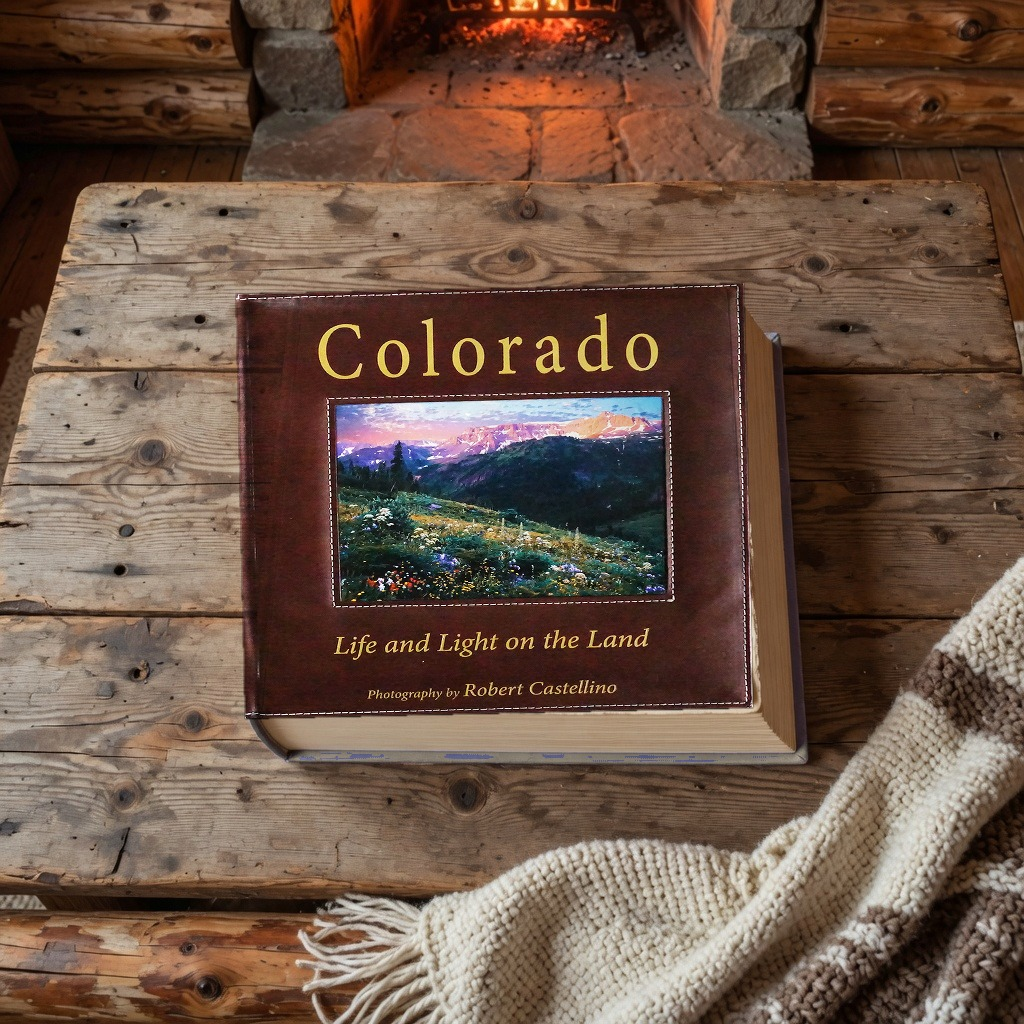
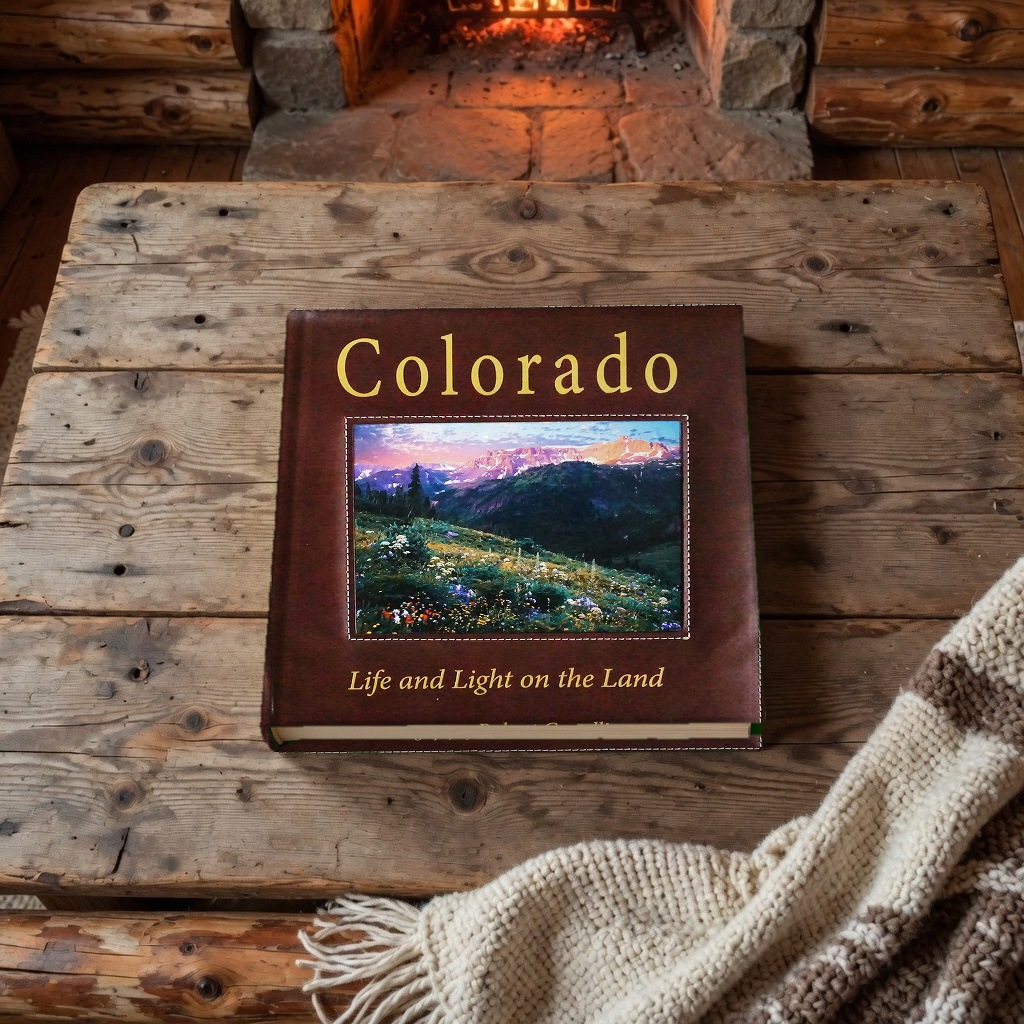
WIP for cross-device parity: add creative brief + updated book scene stand-ins
- docs/creative-brief.md (campaign strategy)
- book-cabin/evening/morning.jpg local edits (experimental stand-ins)

Changed region(s): [[0.2188, 0.25, 0.9375, 0.7812]]

diff --git a/docs/creative-brief.md b/docs/creative-brief.md
@@ -1,0 +1,125 @@
+# Creative brief — Robert Castellino
+
+Paid social and search, for the photography, the book, and the prints.
+
+Client: Robert Castellino. Site: [robertcastellino.com](https://robertcastellino.com). Studio ships from Boulder. He is based in Lafayette and has been photographing since 1985. The line on the site is half a century, one landscape.
+
+This brief is for eyeballs that can turn into a book order or a print order. Holiday gifting is one burst inside a year-round plan.
+
+## What we are selling
+
+1. **The book.** *Colorado: Life & Light on the Land.* 11 × 11 inch cloth hardcover, 168 pages, 124 plates. $75, signed $85, shipping about $12, out of the Boulder studio in about three business days. Fifth printing. This is the easiest purchase and the holiday hero.
+2. **Prints from the gallery.** Signed. Checkout sizes run from a small print around $26 up to a large one around $329, plus shipping. Someone can buy a plate straight from the gallery.
+3. **Limited-edition finishes,** shown on the book page: archival paper from $185, gallery canvas from $475, aluminum from $625, acrylic from $1,250. These are the fine-art sale, not the impulse sale.
+4. **The practice.** Mountain and Colorado photography, fine art, the archive. About, timeline, gallery, and the musings. This is what search and the top of the ad funnel are for.
+
+The holiday code `COLORADO15` on the gift-series page is still a placeholder. Do not put it in paid ads until the real offer is confirmed.
+
+## Who it is for
+
+- People who live in Colorado, or left and still miss it. The book and a print are how they keep the place in the house.
+- Gift buyers in November and December. The person who is hard to shop for. The book is the answer.
+- People who already care about mountain photography and fine art, and will pay for a signed print or a large finish.
+- Designers and homeowners furnishing a room. Pinterest and the wide Facebook ads are for them.
+
+Not the audience: generic travel shoppers, stock-photo buyers, or people looking for a cheap poster of the Maroon Bells.
+
+## The idea
+
+An experienced photographer. Fifty years in the field. One square book, and prints from the same plates.
+
+Every ad and every search page should make that obvious in the first line. The feeling lines (Rocky Mountain High, Dreaming of Colorado, Give the gift of Colorado, The mountains set your soul free) carry the picture. The photographer and the sale carry the reason to click.
+
+Voice: quiet, specific, first-hand. Name the place and the plate. Do not write like a postcard. Do not use a portrait that is not actually Robert. The usable photographs of him are the hat portrait, the Flatirons, Jenny Lake, and the about picture.
+
+## Paid social
+
+Goal: qualified visits to `/book`, `/gallery`, and a print checkout. Vanity reach is not the goal. A view that does not know there is a book or a print for sale is a wasted view.
+
+### Always on, then a holiday burst
+
+**Always on (year round).** Prospecting for people interested in Colorado, the Rockies, landscape photography, fine-art prints, and coffee-table books. Creative is the plate plus Robert, with a soft invitation to the book or the gallery. No fake discount.
+
+**Holiday burst (early November through December 19).** The same audiences, plus gift and home-decor interests. The offer is the signed book, once the real code exists. Cutoff is real: order in time to ship from Boulder before Christmas.
+
+### Where the money goes
+
+| Platform | Job | Shape |
+|---|---|---|
+| Instagram and Facebook feeds | The photographer and the plates. Retarget site visitors. | 4:5 and 1:1 |
+| Instagram and Facebook stories / Reels | One plate, one line, a tap to the book. | 9:16 |
+| Facebook and Instagram link ads | The book on the table, or a print on a wall, with the price. | 1.91:1 |
+| Pinterest | The room, the book, the print on a wall. Long life, home-decor intent. | 2:3 |
+| Email | People who already know him. The sale and the ship date. | 2:1 |
+
+Pinterest is not an afterthought. Coffee-table books and wall art are what that audience saves.
+
+Start the budget on feeds and Pinterest. Stories are for people who already watched or visited. Do not spread a small budget across every placement on day one.
+
+### Three campaigns, not one pile of posts
+
+1. **The place.** Maroon Bells, Sopris, Dream Lake, the San Juans, Pawnee, a lone pine. Headline is the feeling. Click goes to the gallery plate or a musing about that place, then to the book.
+2. **The photographer.** Fifty years, the Flatirons, the hat portrait. Click goes to `/about` or `/book`.
+3. **The object.** The square book on a table, a print on a wall. Click goes straight to `/book` or the print. This is the only campaign that leads with price.
+
+The gift-series page is the creative deck, not the ad destination. It is unlisted and marked noindex. Ads click through to the real site.
+
+### What an ad has to do
+
+- Show a real plate or a real photograph of Robert.
+- Say he has been doing this for fifty years, or show the book.
+- Name one next step: see the book, or see the print.
+- In the holiday burst, state the signed price and the last ship date.
+
+The book is square, eleven inches by eleven. Do not run a creative where the book looks wide.
+
+### Proof it is working
+
+Track, in this order: clicks to `/book` and `/gallery`, add-to-checkout, purchases. Separate book orders from print orders. A good prospecting ad can have a modest click rate if the people who click buy. Kill an ad that gets cheap clicks and no product views.
+
+Retarget anyone who visited `/book` or opened a print and did not buy, for two weeks, with the object campaign only.
+
+## Search
+
+Goal: be the page Google shows when someone is already looking for this photographer, this book, or a fine photograph of a Colorado place, and send them to a page that can sell.
+
+The site already has the right bones: home, about, timeline, gallery, book, musings, contact. The musings are the content engine. They are specific (a pass, a peak, a number of seconds of light). That is what ranks. A generic “Colorado photography” blog post will not.
+
+### What to rank for
+
+Three clusters. Write and title pages in this language.
+
+**The name.** Robert Castellino, Castellino photography, Colorado Life and Light on the Land. Home, about, and the book page should win these outright. Title and H1 stay plain: his name, Colorado, landscape photography, the book title.
+
+**The place.** Maroon Bells photography, Dream Lake, Mount Sopris, Red Mountain Pass, Pawnee Buttes, Hanging Lake, Indian Peaks, San Juan Mountains. One musing or gallery plate per place, with the place name in the title, the first paragraph, and the image alt text. Each of those pages links to the print of that plate and to the book.
+
+**The object.** Colorado coffee table book, fine art landscape prints Colorado, signed Colorado photography, large format mountain print. The book page and the print section carry these. Say the size, the price, and that it ships from Boulder.
+
+Do not chase “Rocky Mountain High” as a search term. It is a song. Use it only as a social line.
+
+### What to build
+
+- Give every musing a title a person would type, a one-sentence description, and a link to the related plate and to `/book`.
+- Add a short place line on each gallery plate: where it was made, what year, and a link to the musing when one exists.
+- On the book page, keep the specs in text, not only in pictures: 11 × 11, 168 pages, 124 plates, $75, signed $85, ships from Boulder.
+- Add local signals on the contact and about pages: Lafayette, Boulder studio, Colorado. Same name, address, and phone everywhere they appear.
+- Keep the gift-series page noindex. It is a client deck.
+- Make sure plate images have real alt text (the plate name and the place), so image search can find them.
+
+### What not to do
+
+Do not spin up a pile of thin location pages that repeat the same paragraph with a town name swapped. One strong page per real plate is enough. Google already has a hundred Maroon Bells galleries. The advantage here is the specific story: fifty seconds of light, nine autumns at the same tree, a photographer who will sign the print.
+
+## How the two work together
+
+Search catches people who already want a Colorado photograph, a book, or this photographer. Paid social creates that want in people who were not searching yet, then hands them to the same pages.
+
+A plate should exist in three places: a social ad, a gallery page with a buy button, and a musing that can rank. If an ad points at a dead end, fix the page before spending.
+
+## First moves
+
+1. Confirm the real holiday offer and the last day an order ships in time for Christmas.
+2. Point the holiday ads at `/book`, not at the gift-series deck.
+3. Turn on the object campaign (book on the table, print on the wall) and the place campaign (five plates). Hold stories until those two are running.
+4. Retitle the strongest musings around the place names above, and link each one to its print and to the book.
+5. Check Search Console for the queries the site already appears on, and deepen those pages before writing new ones.
